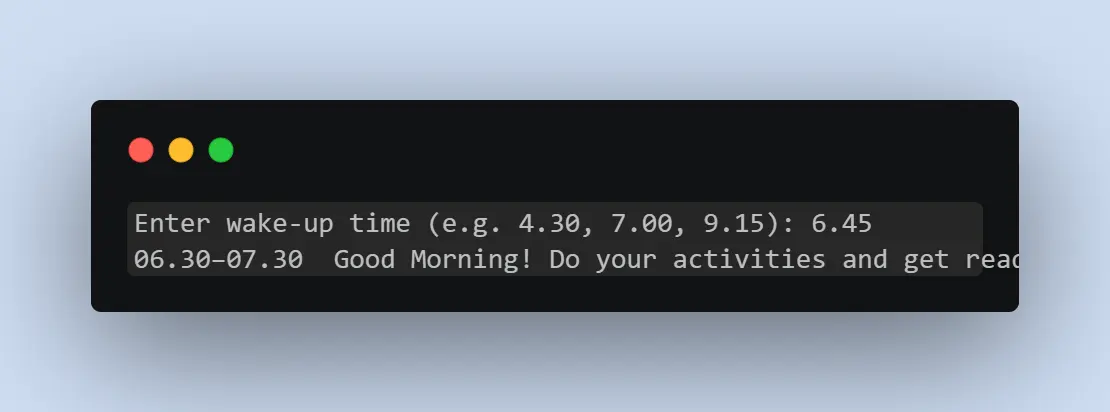
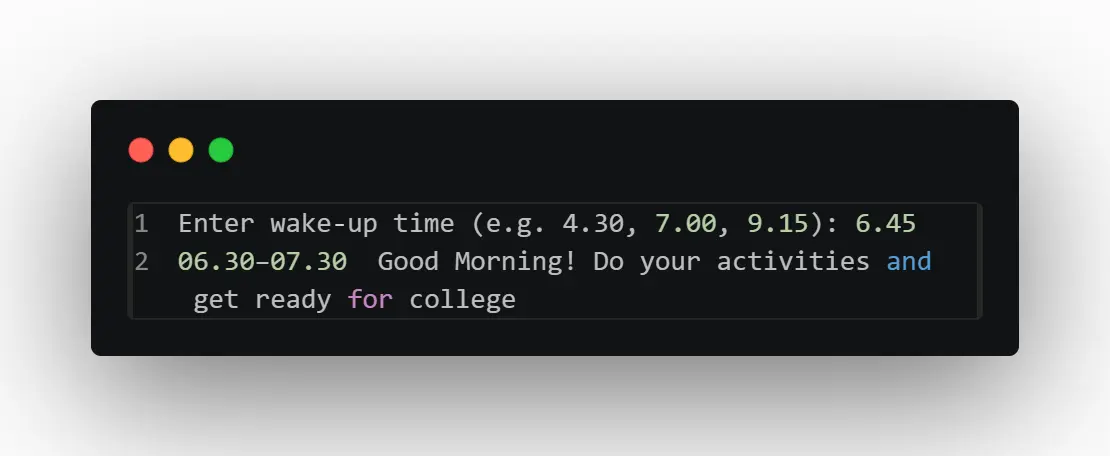
docs(assignments): update Assignment 01 documentation and assets

diff --git a/remote/web-blinders/assignments/01-college-routine-planner/README.md b/remote/web-blinders/assignments/01-college-routine-planner/README.md
@@ -14,17 +14,12 @@ The assignment focuses on implementing a **College Routine Planner** using Pytho
 | ------------------- | -------------------------------------------------- |
 | 📄 `QUESTION.md`    | Assignment statement, objectives, and requirements |
 | 📓 `solution.ipynb` | Complete Jupyter Notebook solution                 |
-| 🖼 `preview.webp`   | Preview of the notebook                            |
 | 🖼 `output.webp`    | Sample program output                              |
 
 ## Quick Navigation
 
 * 📄 **Assignment:** [QUESTION.md](QUESTION.md)
 * 📓 **Solution:** [solution.ipynb](solution.ipynb)
-
-## Preview
-
-![Notebook Preview](preview.webp)
 
 ## Sample Output
 
